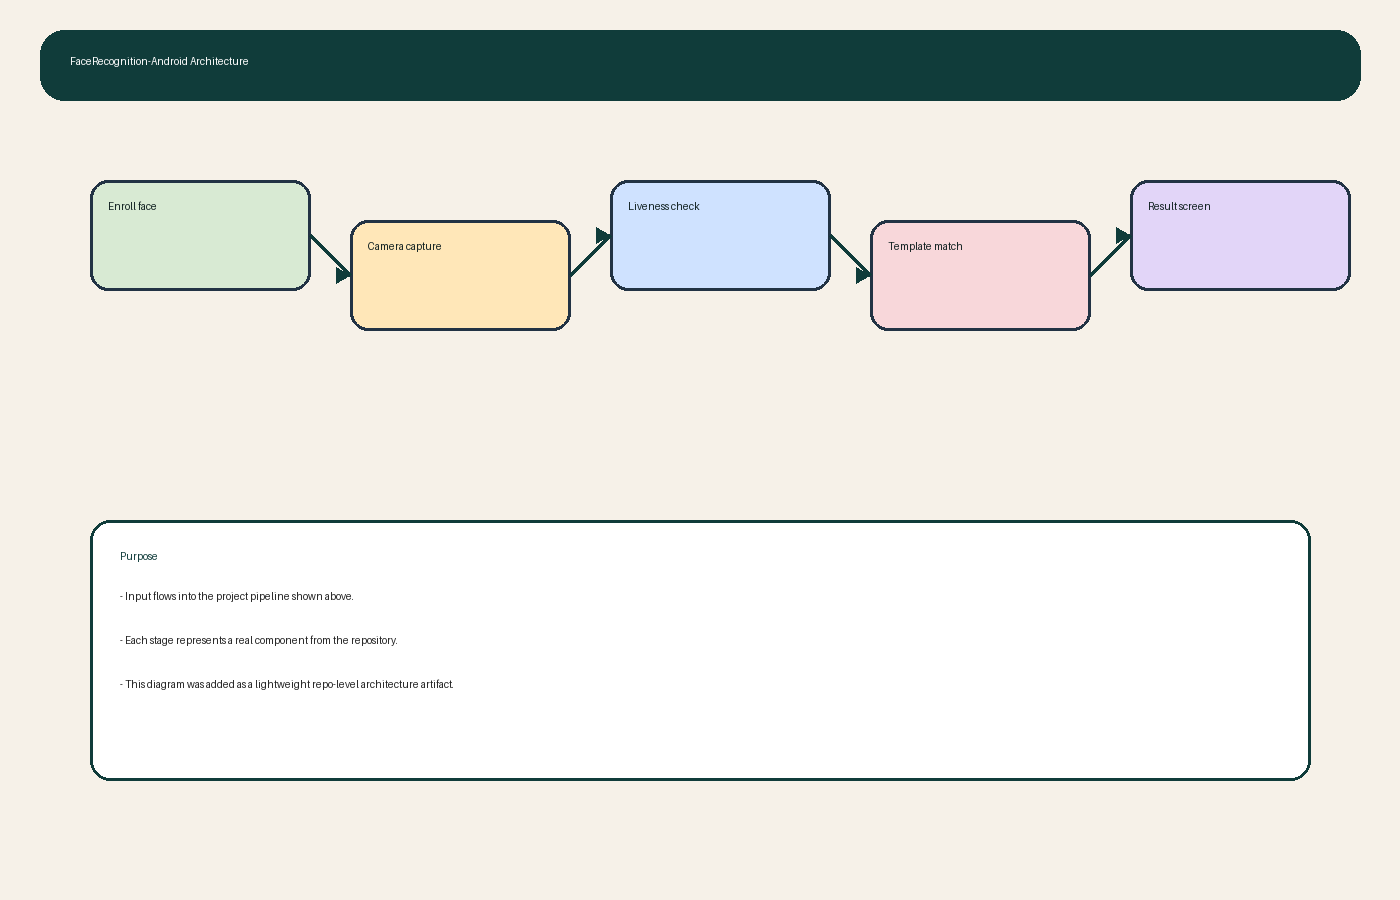
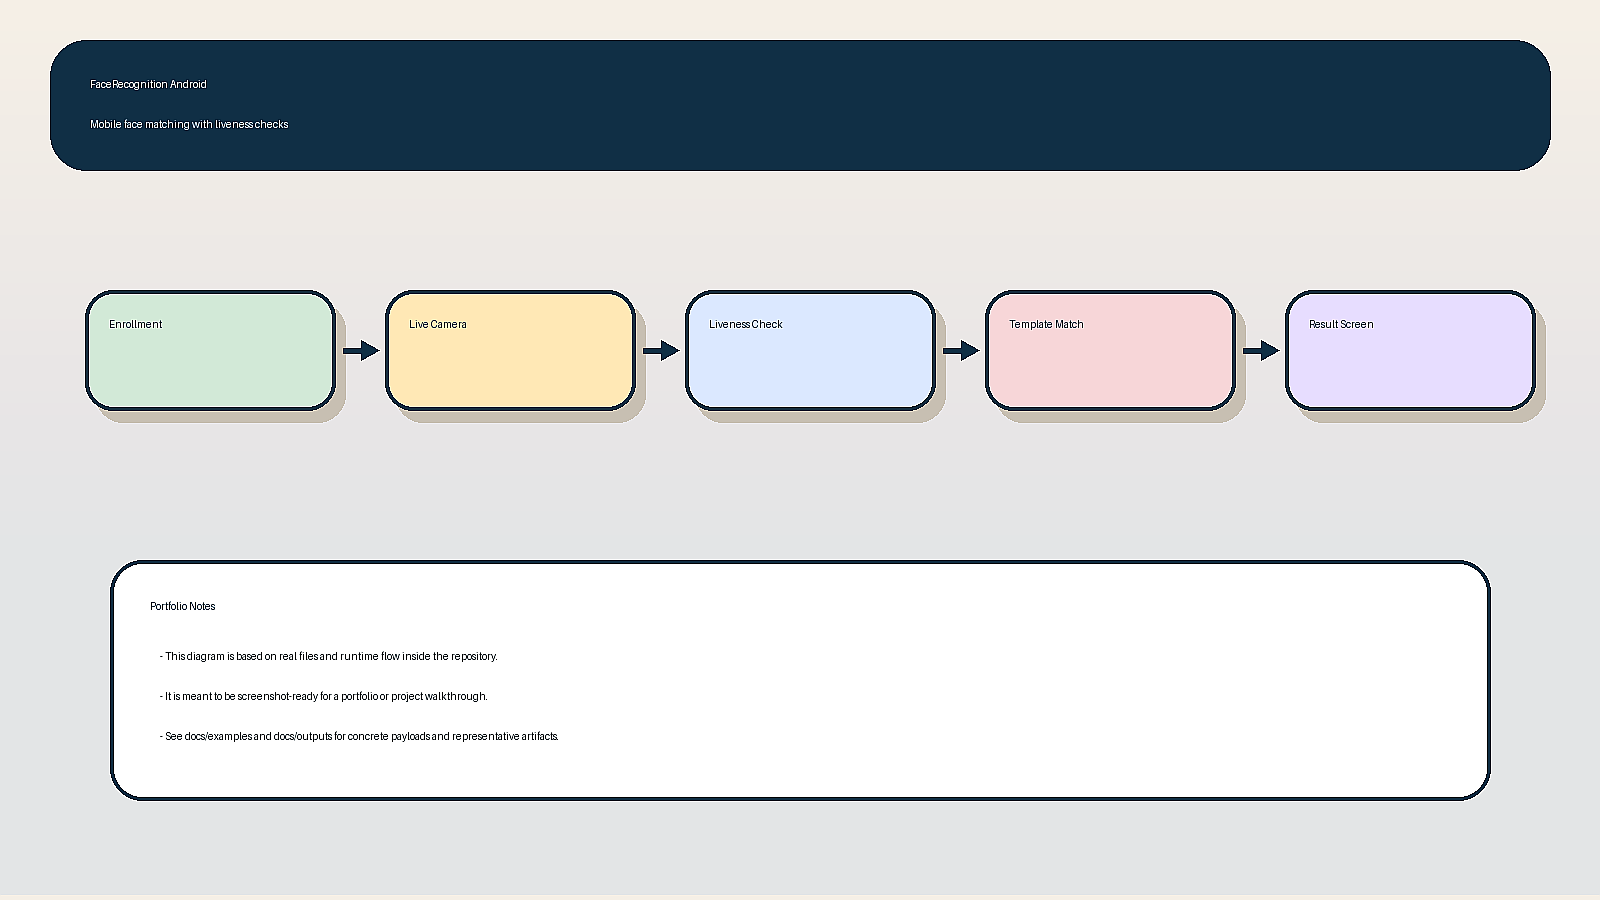
Polish architecture docs and add rich examples

Changed region(s): [[0.0307, 0.0311, 0.9829, 0.4978], [0.0614, 0.56, 0.9521, 0.9022]]

diff --git a/docs/sample_io.md b/docs/sample_io.md
@@ -1,19 +1,11 @@
 # Sample Inputs and Outputs
 
-## Sample enrollment input
-- Select one face image from the gallery
+## Example files
+- `examples/settings_snapshot.json`
+- `examples/result_payload.json`
+- `outputs/runtime_trace.log`
 
-## Sample live identification flow
-- Open the camera screen
-- Present a live face
-- Pass liveness threshold and similarity threshold
-
-## Sample result output
-```text
-Identified: Person14352
-Similarity: 0.87
-Liveness score: 0.91
-Yaw: 1.2
-Roll: 0.4
-Pitch: -2.1
-```
+## What these show
+- a representative threshold configuration
+- the structure of the result screen data
+- a runtime-style trace for demo narration or portfolio walkthroughs

diff --git a/README.md b/README.md
@@ -81,3 +81,5 @@ flowchart LR
 - [Architecture diagram](docs/architecture.png)
 - [Evaluation logs and outputs](docs/evaluation.md)
 - [Sample inputs and outputs](docs/sample_io.md)
+- [Rich example assets](docs/examples/)
+- [Representative outputs](docs/outputs/)
